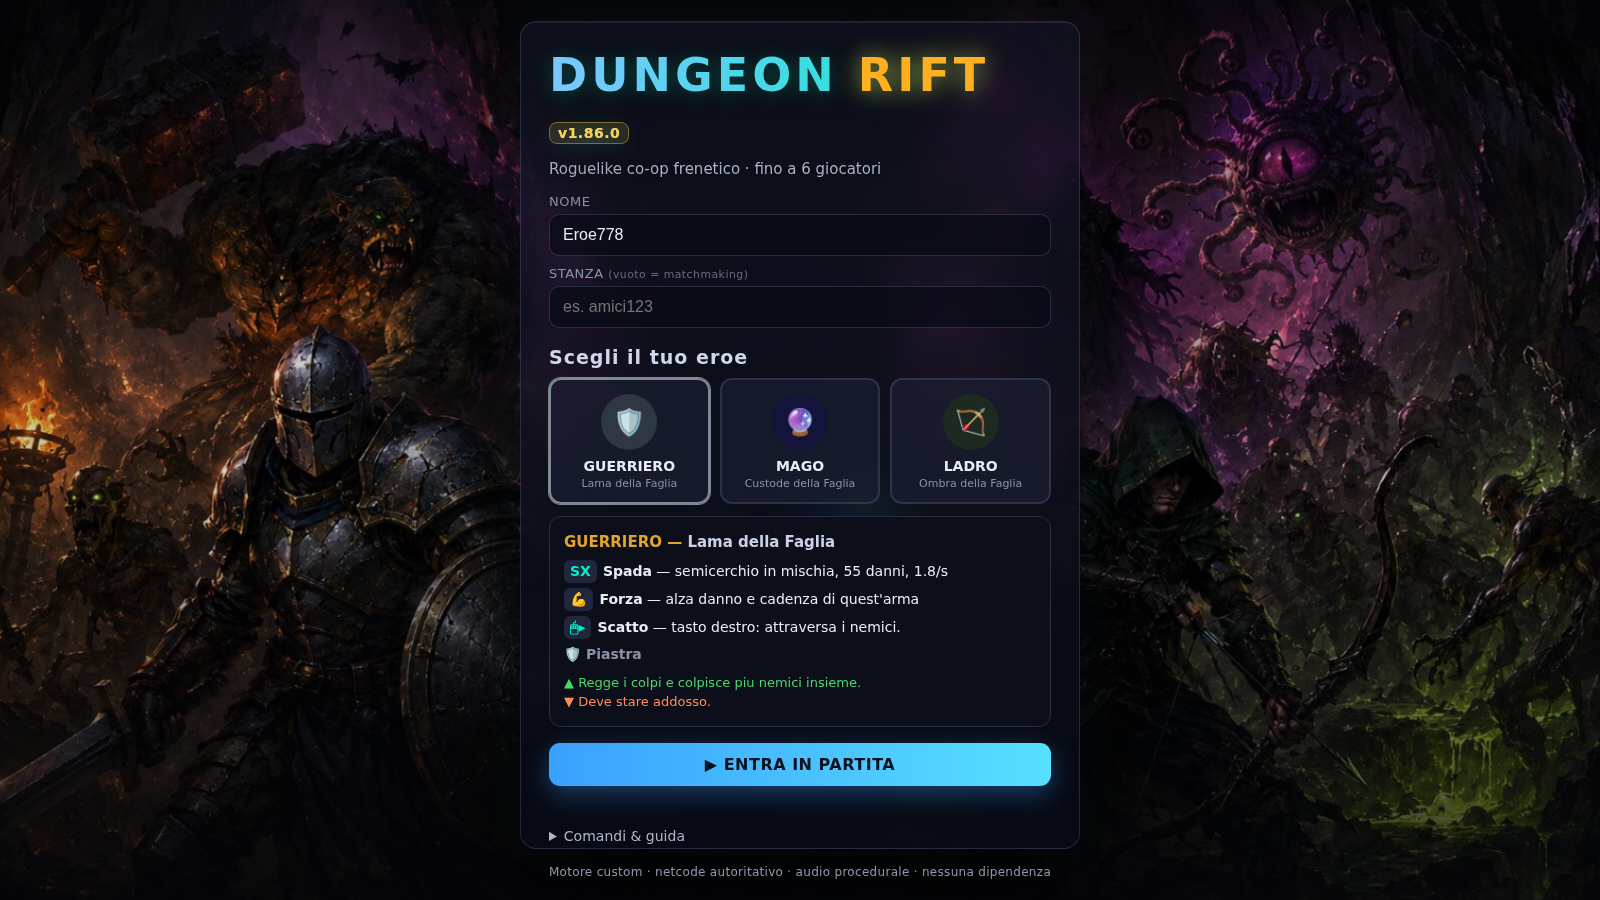
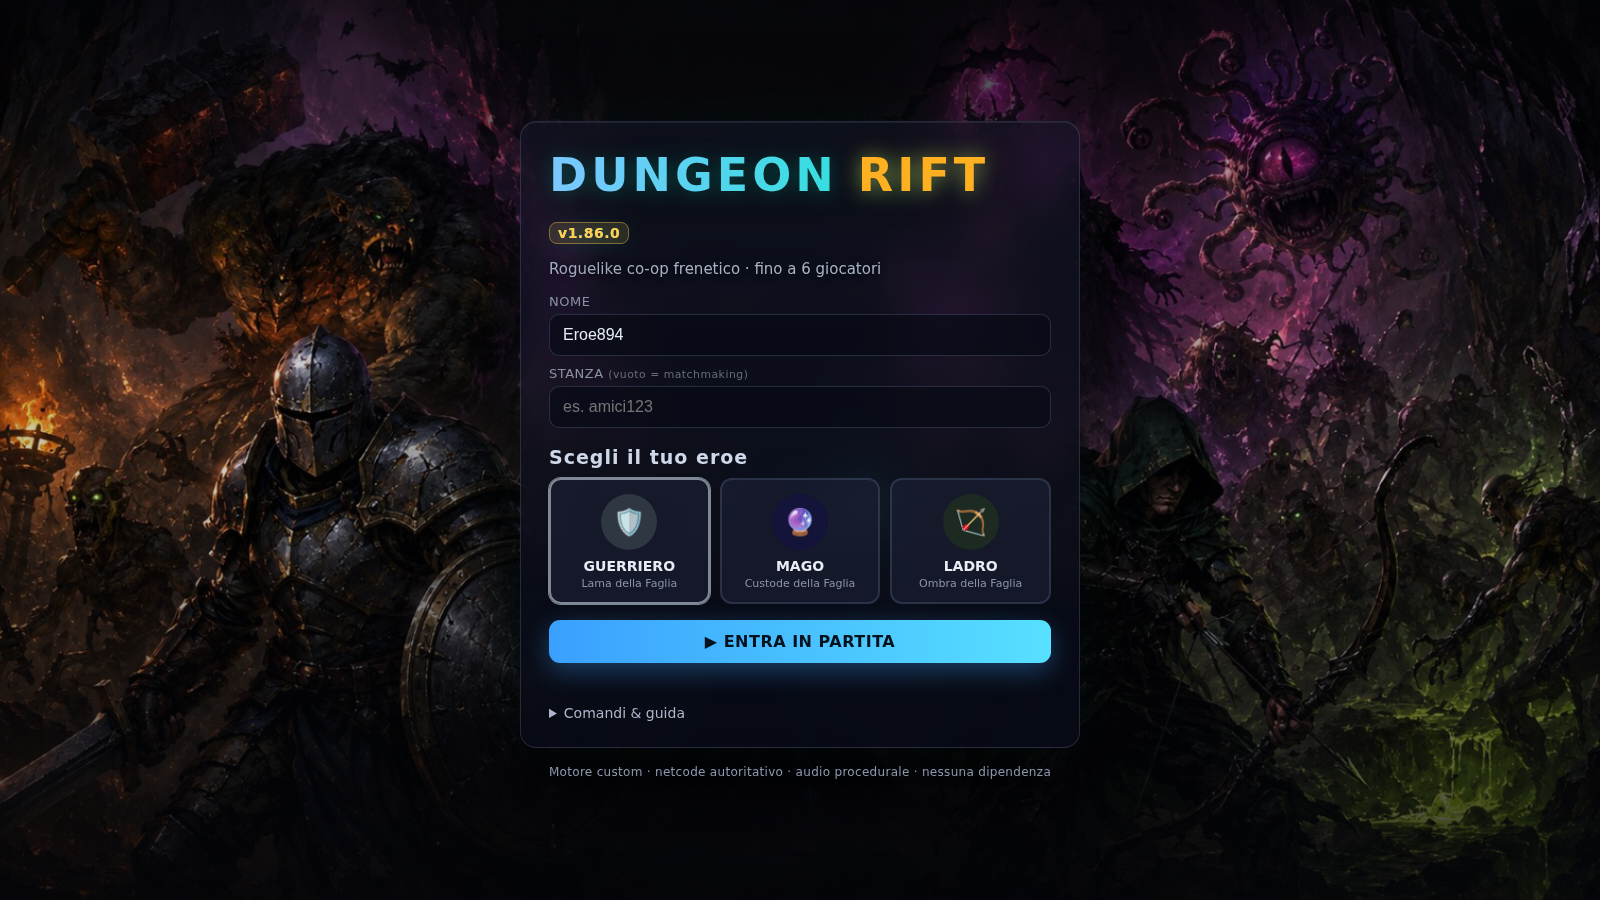
v1.86.1

Changed region(s): [[0.3125, 0.0311, 0.6875, 0.9333], [0.5, 0.9644, 0.6562, 0.9956], [0.3438, 0.9644, 0.4688, 0.9956]]

diff --git a/public/js/hud.js b/public/js/hud.js
@@ -11,7 +11,12 @@
     buildHeroSelect(cb) { const w = $('heroSelect'); w.innerHTML = ''; HORDER.forEach(id => { const h = HERO[id]; const el = document.createElement('div'); el.className = 'hero-chip' + (id === this.selectedHero ? ' sel' : ''); el.style.setProperty('--pick', h.color); el.innerHTML = `<div class="avatar" style="background:${h.color2};color:${h.accent}">${HeroIcon[id]}</div><div class="hname">${h.name}</div><div class="hrole">${h.title}</div>`; el.onclick = () => { this.selectedHero = id; this.buildHeroSelect(cb); this.showHeroDetail(id); if (cb) cb(id); }; w.appendChild(el); }); this.showHeroDetail(this.selectedHero); },
     // v1.66 — la scheda non mostra piu' Q/E (rimosse): al loro posto l'ARMA e la statistica che la governa,
     // che sono le due cose da sapere per scegliere la classe adesso.
-    showHeroDetail(id) { const h = HERO[id]; const SCH = { melee: ['💪', 'Forza', 'semicerchio in mischia'], magic: ['🔮', 'Intelligenza', 'proiettili magici'], ranged: ['🏹', 'Destrezza', 'tiro a distanza'] }[h.weapon.school] || ['⚔', '—', '']; $('heroDetail').innerHTML = `<h3 style="color:${h.accent}">${h.name} — <span style="color:#c9d2e6;font-weight:600">${h.title}</span></h3><div class="ab"><span class="k">SX</span><b>${h.weapon.name}</b> — ${SCH[2]}, ${h.weapon.dmg} danni, ${h.weapon.fireRate}/s</div><div class="ab"><span class="k">${SCH[0]}</span><b>${SCH[1]}</b> — alza danno e cadenza di quest'arma</div><div class="ab"><span class="k">🖱▸</span><b>Scatto</b> — tasto destro: attraversa i nemici.</div><div class="ab pas">🛡 ${h.passives.map(p => '<b>' + p.name + '</b>').join(' · ')}</div><div class="sw"><span class="s">▲ ${h.strengths}</span><br><span class="w">▼ ${h.weakness}</span></div>`; },
+    // v1.86.1 — LA SCHEDA DELLA CLASSE NON STA PIU' NEL MENU. Era un riquadro di sei righe (arma, danni,
+    // cadenza, statistica, scatto, passiva, pregi e difetti) fra i tre eroi e il pulsante: copriva
+    // l'illustrazione e chiedeva di studiare una tabella prima di poter entrare in partita. Le tre classi
+    // si scelgono dai loro tre riquadri, e cosa sanno fare si scopre giocandole. La funzione resta e non
+    // fa niente finche' il riquadro non c'e': se un giorno lo si rimette altrove, torna a riempirlo.
+    showHeroDetail(id) { const h = HERO[id]; const SCH = { melee: ['💪', 'Forza', 'semicerchio in mischia'], magic: ['🔮', 'Intelligenza', 'proiettili magici'], ranged: ['🏹', 'Destrezza', 'tiro a distanza'] }[h.weapon.school] || ['⚔', '—', '']; const box = document.getElementById('heroDetail'); if (!box) return; box.innerHTML = `<h3 style="color:${h.accent}">${h.name} — <span style="color:#c9d2e6;font-weight:600">${h.title}</span></h3><div class="ab"><span class="k">SX</span><b>${h.weapon.name}</b> — ${SCH[2]}, ${h.weapon.dmg} danni, ${h.weapon.fireRate}/s</div><div class="ab"><span class="k">${SCH[0]}</span><b>${SCH[1]}</b> — alza danno e cadenza di quest'arma</div><div class="ab"><span class="k">🖱▸</span><b>Scatto</b> — tasto destro: attraversa i nemici.</div><div class="ab pas">🛡 ${h.passives.map(p => '<b>' + p.name + '</b>').join(' · ')}</div><div class="sw"><span class="s">▲ ${h.strengths}</span><br><span class="w">▼ ${h.weakness}</span></div>`; },
     // v1.66 — niente piu' slot Q/E: la barra tiene solo cio' che il giocatore puo' davvero premere.
     // v1.85 — quattro slot: scatto, arma, e le due ABILITA' ATTIVE. Q ed E nascono col LUCCHETTO e
     // dicono a che livello si aprono — un riquadro vuoto si legge come un guasto, uno chiuso come una meta.

diff --git a/public/style.css b/public/style.css
@@ -57,12 +57,9 @@ button.ghost{background:transparent;border:1px solid var(--line);color:var(--mut
 .hero-chip .avatar{width:56px;height:56px;margin:2px auto 8px;border-radius:50%;display:flex;align-items:center;justify-content:center;font-size:26px}
 .hero-chip .hname{font-size:14px;font-weight:800}
 .hero-chip .hrole{font-size:11px;color:var(--muted);margin-top:3px;line-height:1.2}
-#heroDetail{margin-top:12px;background:#0c0f1a;border:1px solid var(--line);border-radius:12px;padding:14px;font-size:14px;line-height:1.5;min-height:60px}
-#heroDetail h3{margin:0 0 6px;font-size:15px}
-#heroDetail .ab{margin:5px 0}
-#heroDetail .k{display:inline-block;min-width:20px;padding:1px 6px;background:#20263c;border-radius:6px;font-weight:800;margin-right:6px;color:var(--accent2)}
-#heroDetail .pas{color:var(--muted)}
-#heroDetail .sw{margin-top:8px;font-size:13px}#heroDetail .sw .s{color:#4bd66b}.sw .w{color:#ff8a5b}
+/* v1.86.1 — la scheda della classe e' stata tolta dal menu: restano le regole solo per .sw, usata anche
+   altrove. Il resto sarebbe stato CSS per un elemento che non esiste piu'. */
+.sw .w{color:#ff8a5b}.sw .s{color:#4bd66b}
 .help{margin-top:14px;font-size:14px;color:var(--muted)}
 .help summary{cursor:pointer;color:#aeb6cc}
 .help ul{margin:8px 0 0;padding-left:18px;line-height:1.7}

diff --git a/public/index.html b/public/index.html
@@ -63,7 +63,6 @@
     <div class="field"><label>Stanza <small>(vuoto = matchmaking)</small></label><input id="roomInput" maxlength="24" placeholder="es. amici123"></div>
     <h2>Scegli il tuo eroe</h2>
     <div id="heroSelect"></div>
-    <div id="heroDetail"></div>
     <button id="connectBtn" class="primary">▶  ENTRA IN PARTITA</button>
     <div id="menuMsg"></div>
     <details class="help">

diff --git a/shared/constants.js b/shared/constants.js
@@ -6,7 +6,7 @@
 })(typeof self !== 'undefined' ? self : this, function () {
   'use strict';
   const C = {
-    VERSION: '1.86.0',
+    VERSION: '1.86.1',
     // v1.66 — limiti del fendente in mischia (misurati: senza cap l'arco valeva 6x le uccisioni di un tiratore)
     MELEE_MAX_TARGETS: 5, MELEE_SPLASH: 0.55,
     // v1.51 — level up fra le ondate

diff --git a/README.md b/README.md
@@ -1,4 +1,4 @@
-# ⚔ DUNGEON RIFT v1.86.0 — Roguelike Co-op Multiplayer 2D
+# ⚔ DUNGEON RIFT v1.86.1 — Roguelike Co-op Multiplayer 2D
 
 Roguelike frenetico per **fino a 6 giocatori**. Motore **custom a dipendenze zero** (Node.js + Canvas 2D):
 niente `npm install`, niente asset esterni — grafica, musica ed effetti sono **generati proceduralmente**.
@@ -25,6 +25,8 @@ Test: `npm test`
 | Minimappa | sempre visibile (in basso a sinistra) |
 
 ## 🆕 Novita v1.86 (il menu illustrato)
+- **🧹 Niente scheda della classe nel menu** *(v1.86.1)*: restano i tre riquadri degli eroi e il pulsante.
+  Il pannello si accorcia di un terzo e l'illustrazione si vede sopra e sotto.
 - **🖼 Artwork a tutto schermo** nel menu iniziale: i tre eroi di fronte, l'orda e la faglia alle spalle.
   Sta in `public/assets/art/menu_key_art.jpg` (il brief e il prompt sono in **ARTWORK.md**).
 - **🪟 Il pannello diventa vetro**: sfondo semitrasparente con sfocatura, filo d'oro in cima, entrata in

diff --git a/CHANGELOG.md b/CHANGELOG.md
@@ -2,6 +2,19 @@
 
 Tutte le modifiche rilevanti del progetto, versione per versione (dalla più recente).
 
+### [1.86.1] — 2026-09-05 · "Meno da leggere"
+
+Via dal menu la **scheda della classe**: il riquadro fra i tre eroi e il pulsante che elencava arma, danni,
+cadenza, statistica, scatto, passiva, pregi e difetti. Erano sei righe di tabella davanti a un'illustrazione,
+e chiedevano di studiare prima di poter giocare. Restano i **tre riquadri** per scegliere l'eroe e
+**ENTRA IN PARTITA**; cosa sa fare una classe si scopre giocandola — e comunque e' tutto nel menu di pausa.
+
+Il pannello si accorcia di un terzo e l'artwork si vede sopra e sotto, che era il punto della 1.86.
+`showHeroDetail()` resta e non fa niente finche' il riquadro non c'e': se un giorno lo si rimette da
+un'altra parte, torna a riempirlo da solo.
+
+---
+
 ### [1.86.0] — 2026-09-05 · "La prima cosa che vedi"
 
 #### 🖼 Il menu ha un'illustrazione
